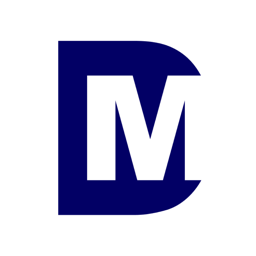
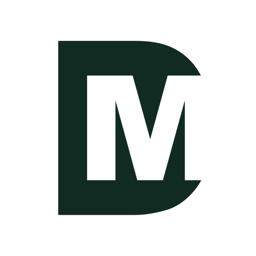
Update brand primary color to #112B22
Recolor the app icon, site icon and favicon from navy to the new
green, and switch the website accent tokens (light: #112b22, dark:
#90d5bd mint for contrast on dark backgrounds).

Changed region(s): [[0.2188, 0.1562, 0.7812, 0.8438]]

diff --git a/docs/index.html b/docs/index.html
@@ -30,16 +30,16 @@
     --muted: #5c5f70;
     --faint: #8a8d9c;
     --border: #e4e4ec;
-    --accent: #1d1a9e;
-    --accent-hover: #15127f;
+    --accent: #112b22;
+    --accent-hover: #1d4436;
     --accent-text: #ffffff;
-    --accent-soft: #ededff;
+    --accent-soft: #ebf5f1;
     --green: #1f9d55;
     --orange: #d9730d;
     --purple: #a23fd1;
     --warn-bg: #fff6e8;
     --warn-border: #f3dcb2;
-    --shot-shadow: 0 30px 80px -30px rgba(18, 16, 80, .35), 0 8px 24px -12px rgba(18, 16, 80, .18);
+    --shot-shadow: 0 30px 80px -30px rgba(17, 43, 34, .35), 0 8px 24px -12px rgba(17, 43, 34, .18);
     --radius: 14px;
     color-scheme: light;
   }
@@ -52,10 +52,10 @@
       --muted: #a0a2b2;
       --faint: #767989;
       --border: #282a37;
-      --accent: #9c9eff;
-      --accent-hover: #b7b8ff;
+      --accent: #90d5bd;
+      --accent-hover: #b0e8d5;
       --accent-text: #0c0d13;
-      --accent-soft: #1d1d3a;
+      --accent-soft: #172b24;
       --green: #4cc37e;
       --orange: #f0994a;
       --purple: #c77dec;
@@ -73,10 +73,10 @@
     --muted: #a0a2b2;
     --faint: #767989;
     --border: #282a37;
-    --accent: #9c9eff;
-    --accent-hover: #b7b8ff;
+    --accent: #90d5bd;
+    --accent-hover: #b0e8d5;
     --accent-text: #0c0d13;
-    --accent-soft: #1d1d3a;
+    --accent-soft: #172b24;
     --green: #4cc37e;
     --orange: #f0994a;
     --purple: #c77dec;
